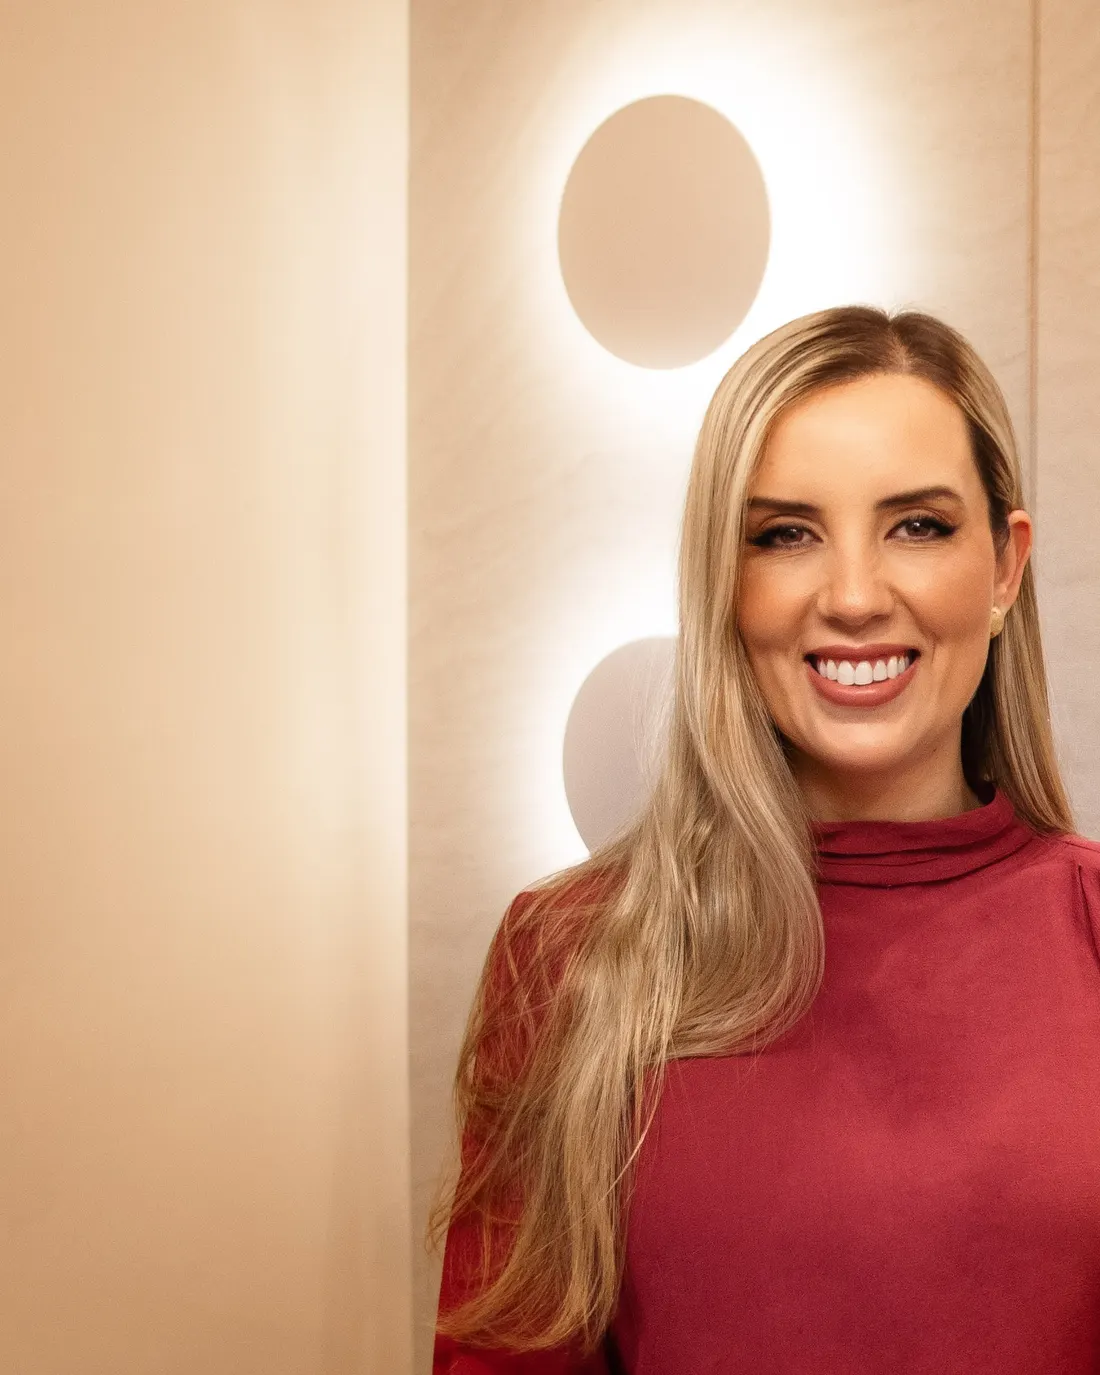
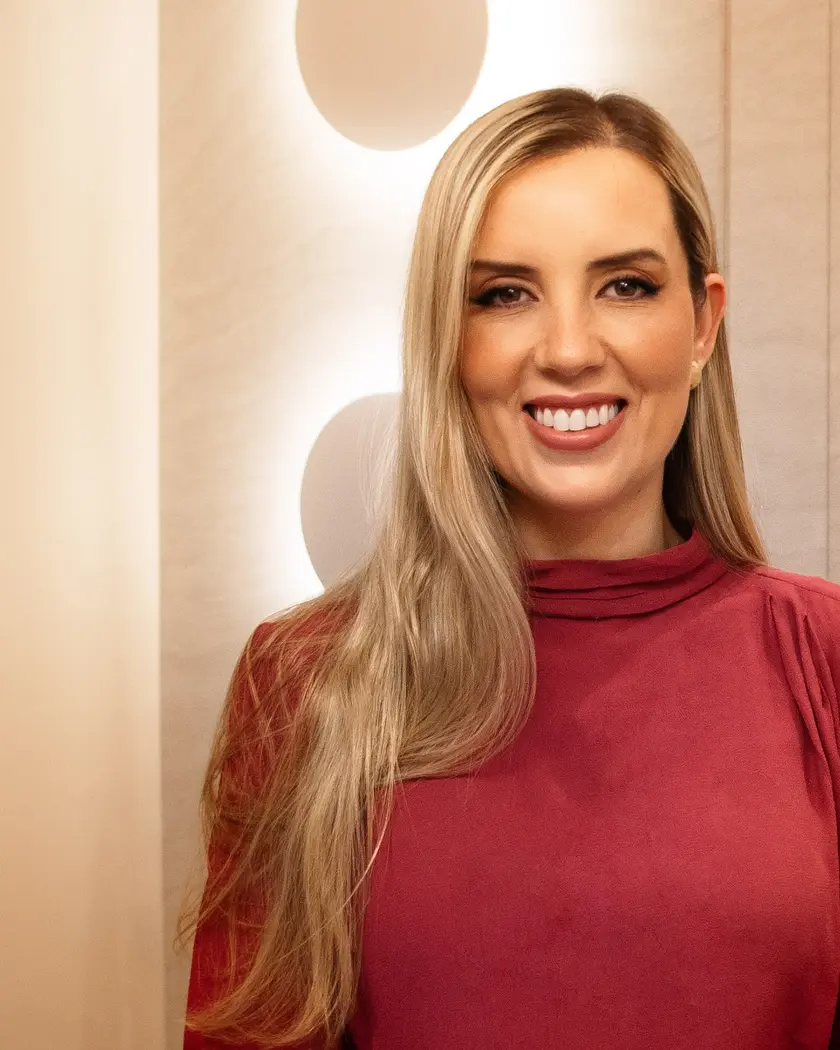
Refaz o hero com imagem ampla sangrando até a borda e art direction
A foto nova da recepção é uma paisagem, mas o slot do hero era um retrato
4:5 — desenhado para a foto vertical de estúdio anterior. Forçar uma na
outra descartava ~46% da largura e sempre partia a placa da clínica no meio.

No desktop a coluna da imagem agora sangra até a borda direita da tela, em
formato 1.4:1, mostrando a recepção e a placa "avvi CLÍNICA" inteira. No
mobile, um <picture> serve um corte vertical fechado nela, porque a 420px
um corte largo faz o rosto sumir. O preload também passa a ser por
breakpoint, para não baixar as duas versões e prejudicar o LCP.

diff --git a/index.html b/index.html
@@ -8,7 +8,8 @@
   <link rel="preconnect" href="https://fonts.googleapis.com" />
   <link rel="preconnect" href="https://fonts.gstatic.com" crossorigin />
   <link href="https://fonts.googleapis.com/css2?family=Fraunces:ital,opsz,wght@0,9..144,400;0,9..144,500;0,9..144,600;1,9..144,500&family=Inter:wght@400;500;600&display=swap" rel="stylesheet" />
-  <link rel="preload" as="image" href="fotos/hero.webp" fetchpriority="high" />
+  <link rel="preload" as="image" href="fotos/hero.webp" media="(max-width: 900px)" fetchpriority="high" />
+  <link rel="preload" as="image" href="fotos/hero-wide.webp" media="(min-width: 901px)" fetchpriority="high" />
 
   <!-- Meta Pixel -->
   <script>
@@ -172,6 +173,7 @@
       padding: 7px 14px; border-radius: 100px;
     }
     .hero-visual { position: relative; }
+    .hero-visual picture { display: block; }
     .hero-visual::before {
       content: '';
       position: absolute; top: -10%; right: -16%;
@@ -204,6 +206,23 @@
       font-family: var(--ff-display);
       font-size: 19px; font-weight: 600;
       color: var(--charcoal);
+    }
+
+    /* HERO — no desktop a foto sangra até a borda direita da tela */
+    @media (min-width: 901px) {
+      .hero { padding-left: 0; padding-right: 0; }
+      .hero .container {
+        max-width: none; margin: 0;
+        padding: 0 0 0 max(48px, calc((100vw - 1100px) / 2 + 24px));
+        grid-template-columns: minmax(0, 460px) minmax(0, 1fr);
+        gap: 56px;
+      }
+      .hero-visual { width: 100%; max-width: 980px; justify-self: end; }
+      .hero-visual::before { right: auto; left: -7%; }
+      .hero-visual img {
+        aspect-ratio: 1.4 / 1;
+        border-radius: var(--radius) 0 0 var(--radius);
+      }
     }
 
     /* PAIN */
@@ -548,7 +567,10 @@
       </div>
 
       <div class="hero-visual">
-        <img src="fotos/hero.webp" alt="Dra. Vanessa Viríssimo Maciel, dermatologista em Florianópolis" fetchpriority="high" decoding="async" />
+        <picture>
+          <source media="(min-width: 901px)" srcset="fotos/hero-wide.webp" />
+          <img src="fotos/hero.webp" alt="Dra. Vanessa Viríssimo Maciel, dermatologista em Florianópolis" fetchpriority="high" decoding="async" />
+        </picture>
         <div class="hero-strip">
           <p>Registro profissional</p>
           <strong>CRM 23863 · RQE 23318</strong>
